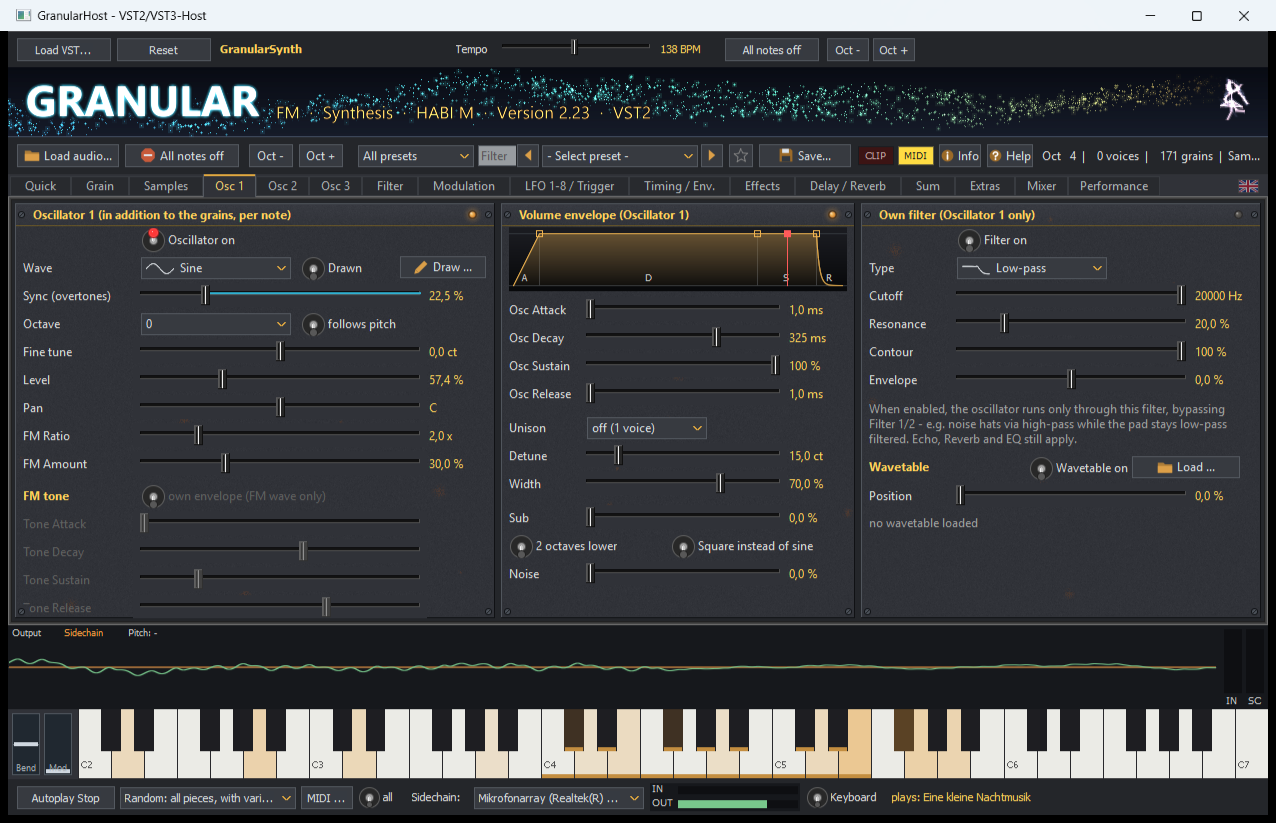
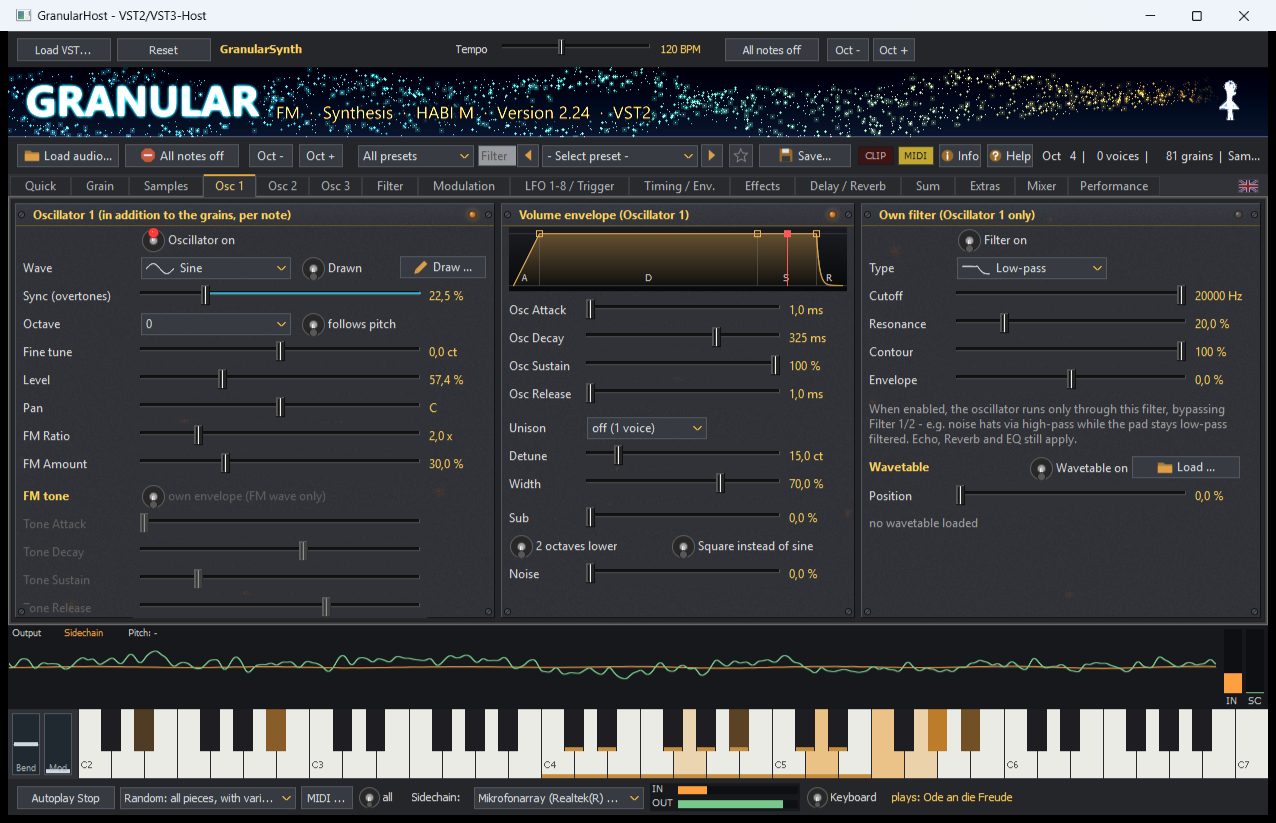
Version 2.24: Welle zeichnen/Step-Sequencer in Bernstein, Doku-Bilder neu

diff --git a/CHANGELOG.md b/CHANGELOG.md
@@ -6,6 +6,14 @@ Unter **Hinweis** steht, was sich für vorhandene Presets, Projekte oder die Ins
 
 ---
 
+## Version 2.24 – 08.11.2026
+
+### Geändert
+- **Welle zeichnen** und **freier LFO / Step-Sequencer** im Bernstein-Farbschema; die Linie, die zeigt, was gespielt wird, ist jetzt hell.
+- Doku-Bilder (deutsch und englisch) im neuen Look; neues Skript `Tools/gui_shots.ps1` für GUI-Check und Doku-Bilder in einem Durchgang.
+
+---
+
 ## Version 2.23 – 08.11.2026
 
 ### Neu
